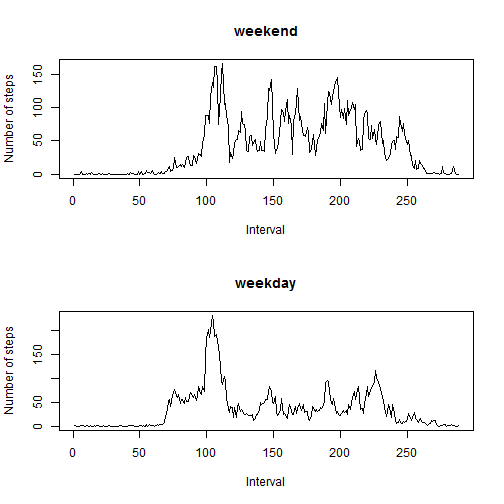
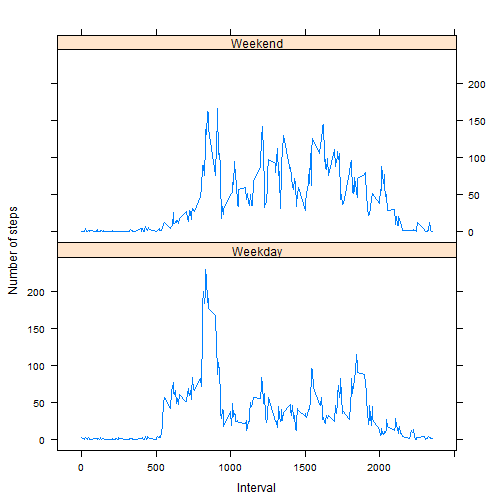
Cleaned weekday/weekend plot code

diff --git a/PA1_template.html b/PA1_template.html
@@ -393,25 +393,42 @@ data.frame(meanSteps = meanStepDay, medianSteps = medianStepDay)
 
 <p>Finally a line plot showcasing the difference of average activity level during the weekdays and weekends is shown below for comparison.</p>
 
-<pre><code class="r"># Identify the weedays &amp; weekends
+<pre><code class="r">#Identify the weedays &amp; weekends
 activityImputData$day &lt;- weekdays(activityImputData$date)
 activityImputData$day[activityImputData$day %in% c(&quot;Saturday&quot;, &quot;Sunday&quot;)] &lt;- &quot;Weekend&quot;
 activityImputData$day[!(activityImputData$day %in% c(&quot;Weekend&quot;))] &lt;- &quot;Weekday&quot;
 
-# Split data by the type of day and find the mean number of steps for both
-# the categories
-step_by_day &lt;- split(activityImputData, activityImputData$day)
-mean_step_weekday &lt;- sapply(split(step_by_day[[&quot;Weekday&quot;]], step_by_day[[&quot;Weekday&quot;]]$interval), 
-    function(x) mean(x$steps))
-mean_step_weekend &lt;- sapply(split(step_by_day[[&quot;Weekend&quot;]], step_by_day[[&quot;Weekend&quot;]]$interval), 
-    function(x) mean(x$steps))
-# Plot the activity level for weekday and weekends
-par(mfrow = c(2, 1))
-plot(mean_step_weekend, type = &quot;l&quot;, main = &quot;weekend&quot;, xlab = &quot;Interval&quot;, ylab = &quot;Number of steps&quot;)
-plot(mean_step_weekday, type = &quot;l&quot;, main = &quot;weekday&quot;, xlab = &quot;Interval&quot;, ylab = &quot;Number of steps&quot;)
+#Split data by the type of day and find the mean number of steps for both the categories
+require(reshape2)
 </code></pre>
 
[1 lines of base64/hex data omitted]
+<pre><code>## Loading required package: reshape2
+</code></pre>
+
+<pre><code class="r">stepByDay &lt;- split(activityImputData, activityImputData$day)
+meanStepByDay &lt;- sapply(stepByDay, #Apply on each type of day
+                        function(x) sapply(split(x, x$interval), #Split into intervals for each day
+                                           function(y) 
+                                             mean(y$steps) #Calculate the mean for each interval
+                                           )
+                        )
+meanStepByDay &lt;- melt(meanStepByDay, 
+                      varnames=c(&quot;Interval&quot;, &quot;day&quot;), 
+                      value.name=&quot;steps&quot;)
+require(lattice)
+</code></pre>
+
+<pre><code>## Loading required package: lattice
+</code></pre>
+
+<pre><code class="r">xyplot(steps~Interval|day, 
+       meanStepByDay,
+       type=&quot;l&quot;,
+       ylab=&quot;Number of steps&quot;,
+       layout=c(1,2))
+</code></pre>
+
[1 lines of base64/hex data omitted]
 
 </body>
 

diff --git a/PA1_template.md b/PA1_template.md
@@ -224,22 +224,43 @@ It can be observed that imputing the data set has transformed the histogram to a
 Finally a line plot showcasing the difference of average activity level during the weekdays and weekends is shown below for comparison.
 
 ```r
-# Identify the weedays & weekends
+#Identify the weedays & weekends
 activityImputData$day <- weekdays(activityImputData$date)
 activityImputData$day[activityImputData$day %in% c("Saturday", "Sunday")] <- "Weekend"
 activityImputData$day[!(activityImputData$day %in% c("Weekend"))] <- "Weekday"
 
-# Split data by the type of day and find the mean number of steps for both
-# the categories
-step_by_day <- split(activityImputData, activityImputData$day)
-mean_step_weekday <- sapply(split(step_by_day[["Weekday"]], step_by_day[["Weekday"]]$interval), 
-    function(x) mean(x$steps))
-mean_step_weekend <- sapply(split(step_by_day[["Weekend"]], step_by_day[["Weekend"]]$interval), 
-    function(x) mean(x$steps))
-# Plot the activity level for weekday and weekends
-par(mfrow = c(2, 1))
-plot(mean_step_weekend, type = "l", main = "weekend", xlab = "Interval", ylab = "Number of steps")
-plot(mean_step_weekday, type = "l", main = "weekday", xlab = "Interval", ylab = "Number of steps")
+#Split data by the type of day and find the mean number of steps for both the categories
+require(reshape2)
+```
+
+```
+## Loading required package: reshape2
+```
+
+```r
+stepByDay <- split(activityImputData, activityImputData$day)
+meanStepByDay <- sapply(stepByDay, #Apply on each type of day
+                        function(x) sapply(split(x, x$interval), #Split into intervals for each day
+                                           function(y) 
+                                             mean(y$steps) #Calculate the mean for each interval
+                                           )
+                        )
+meanStepByDay <- melt(meanStepByDay, 
+                      varnames=c("Interval", "day"), 
+                      value.name="steps")
+require(lattice)
+```
+
+```
+## Loading required package: lattice
+```
+
+```r
+xyplot(steps~Interval|day, 
+       meanStepByDay,
+       type="l",
+       ylab="Number of steps",
+       layout=c(1,2))
 ```
 
 ![plot of chunk unnamed-chunk-6](figure/unnamed-chunk-6.png) 
